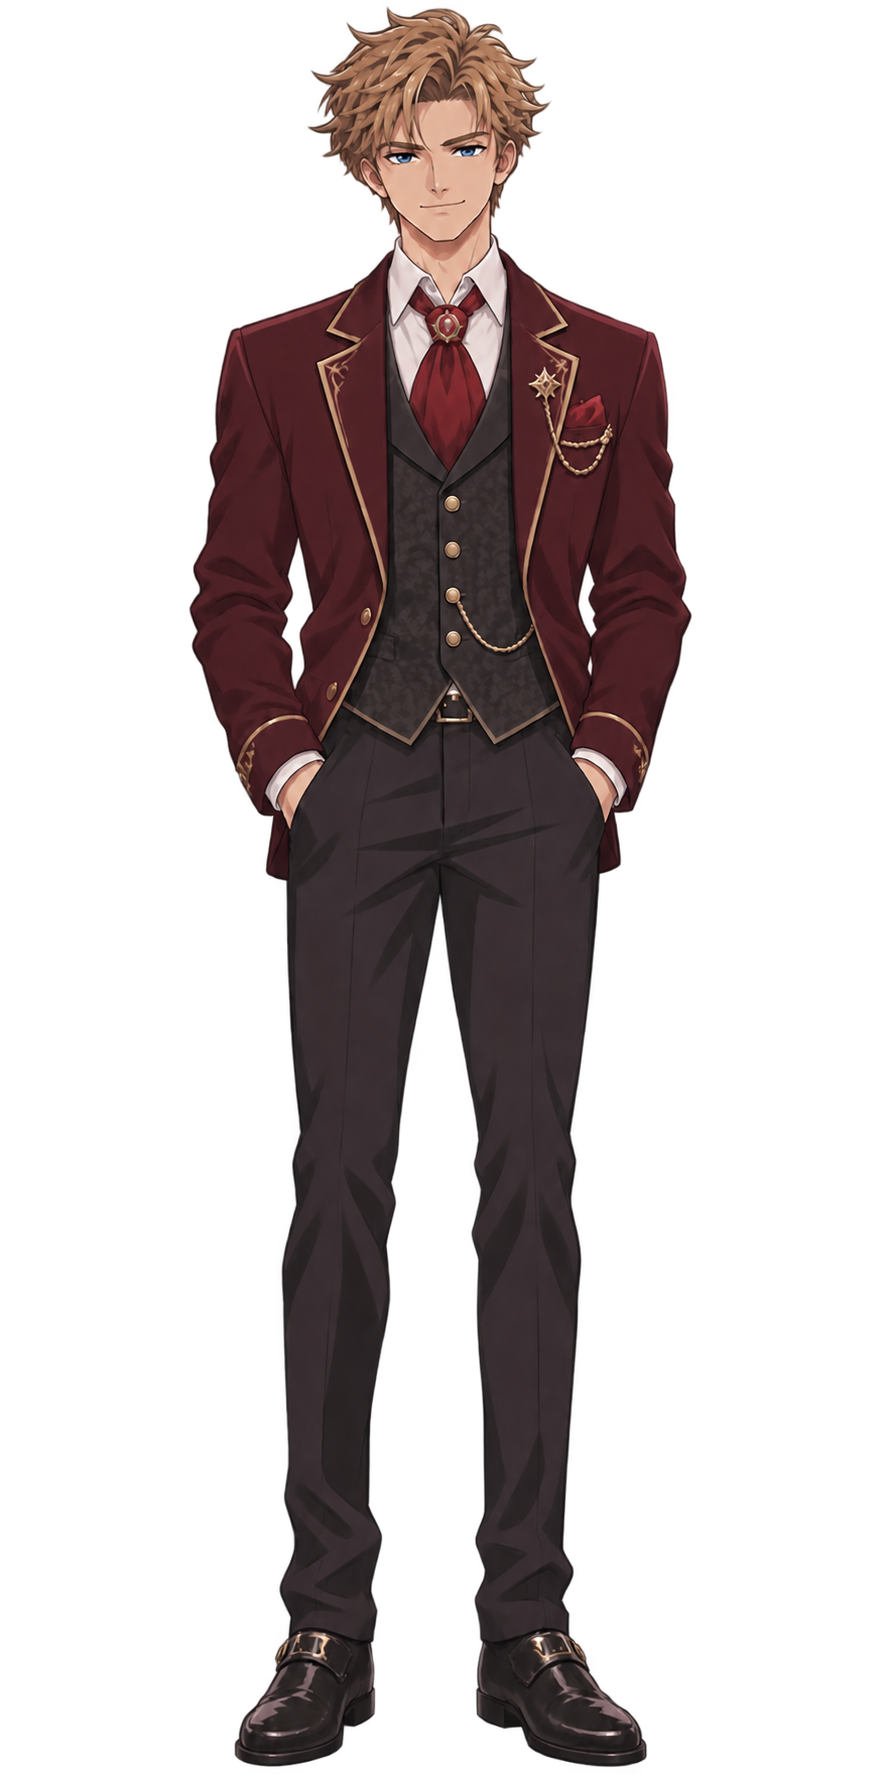
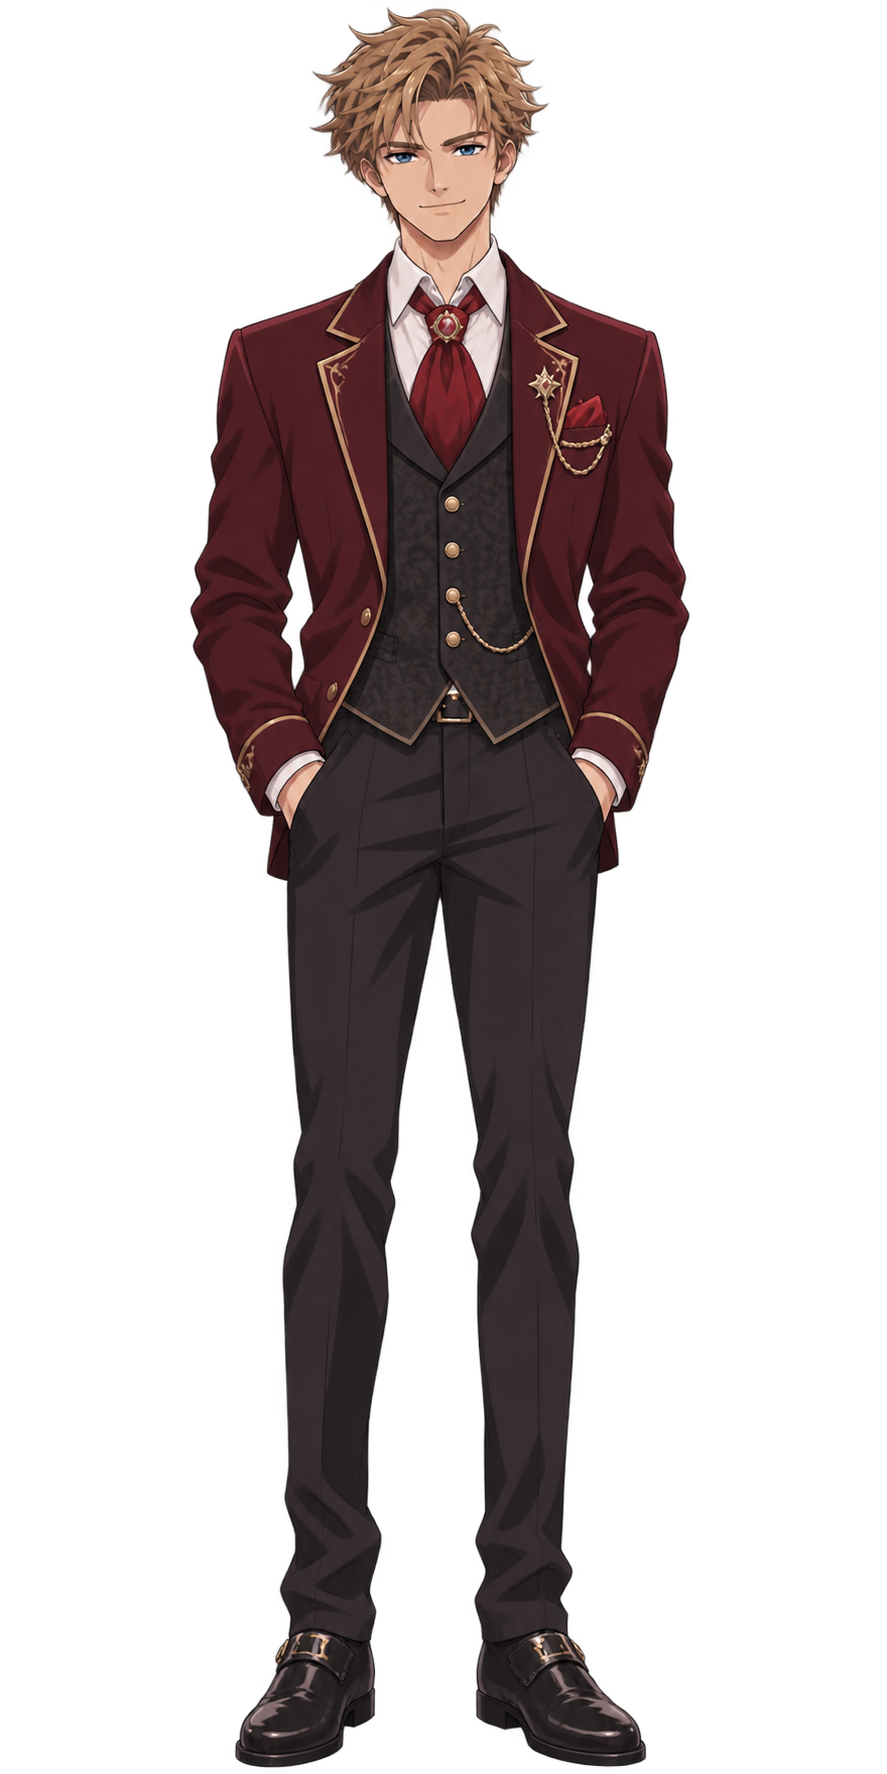
Add Logan Crimson Edge assets

diff --git a/src/scripts/main.js b/src/scripts/main.js
@@ -1,7 +1,7 @@
 import { CHARACTER_COMBAT_DATA, CHARACTER_ROSTER, COMBAT_RESOURCE_STANDARD, ENEMY_ARCHETYPES, ENEMY_COMBAT_DATA, RUNE_COMBAT_RULES, enemyStatsAtLevel, getActiveCharacterUpgradeEffect } from './combat-definitions.mjs';
 import { TwoToneBattleEngine, TwoToneTurnTimeline } from './combat-engine-api.mjs';
 'use strict';
-const sources={arena:'/assets/embedded-image-01.png',area1Background:'/assets/area-1-meadow.png',soul:'/assets/soul-ashblade-battle.png',soulBattleStandard:'/assets/soul-ashblade-battle.png',soulBattlePremium:'/assets/soulbound-battle.png',lily:'/assets/lily-artwork.png',lilyFront:'/assets/lily-artwork.png',lilyStandardBattle:'/assets/lily-petal-battle.png',lilySignatureBattle:'/assets/lily-everblossom-battle.png',lilyWeaponStandard:'/assets/lily-petal.png',lilyWeaponSignature:'/assets/lily-everblossom.png',dawnBattle:'/assets/dawn-radiant-pearl-battle.png',dawnPremiumBattle:'/assets/dawn-radiant-diamond-battle.png',dawnFront:'/assets/dawn-artwork.png',dawnWeaponStandard:'/assets/dawn-radiant-pearl.png',dawnWeaponPremium:'/assets/dawn-radiant-diamond.png',loganBattle:'/assets/logan.png',loganFront:'/assets/logan-front.png',loganPortrait:'/assets/logan-front.png',cloudFront:'/assets/cloud-artwork.png',cloudWindcallBattle:'/assets/cloud-windcall-battle.png',cloudWindcall:'/assets/cloud-windcall.png',cloudNineBattle:'/assets/cloud-nine-battle.png',cloudNine:'/assets/cloud-nine.png',enemy:'/assets/embedded-image-03.png',slimeBattle:'/assets/slime.png',goblinBattle:'/assets/goblin.png',bearBattle:'/assets/bear.png',hawkBattle:'/assets/hawk.png',geodeBattle:'/assets/geode.png',wolfBattle:'/assets/wolf.png',wolfArtwork:'/assets/wolf-artwork.png',slimeArtwork:'/assets/slime-artwork.jpg',portrait:'/assets/embedded-image-04.png',soulFront:'/assets/soul-artwork.png',soulWeaponStandard:'/assets/soul-ashblade.png',soulWeaponPremium:'/assets/soulbound.png',zeroFront:'/assets/zero.png',zeroBattle:'/assets/zero-battle.png',architectureLayer:'/assets/embedded-image-06.png',floorLayer:'/assets/embedded-image-07.png',treeLayer:'/assets/embedded-image-08.png',enchantedBottleSmall:'/assets/enchanted-bottle-small.png',enchantedBottleMedium:'/assets/enchanted-bottle-medium.png',enchantedBottleLarge:'/assets/enchanted-bottle-large.png',enchantedBookSmall:'/assets/enchanted-book-small.png',enchantedBookMedium:'/assets/enchanted-book-medium.png',enchantedBookLarge:'/assets/enchanted-book-large.png',core:'/assets/core.png',gem:'/assets/gem.png',coin:'/assets/coins.png',runeRadiantMoon:'/assets/rune-radiant-moon.png',runeEternalSun:'/assets/rune-eternal-sun.png',runeCelestialStar:'/assets/rune-celestial-star.png',runeDarkMatter:'/assets/rune-dark-matter.png',runeClearSkies:'/assets/rune-clear-skies.png',runeInfiniteSpace:'/assets/rune-infinite-space.png',runeRecycle:'/assets/rune-recycle.png',runeAmplify:'/assets/rune-amplify.png',runeUnited:'/assets/rune-united.png'};
+const sources={arena:'/assets/embedded-image-01.png',area1Background:'/assets/area-1-meadow.png',soul:'/assets/soul-ashblade-battle.png',soulBattleStandard:'/assets/soul-ashblade-battle.png',soulBattlePremium:'/assets/soulbound-battle.png',lily:'/assets/lily-artwork.png',lilyFront:'/assets/lily-artwork.png',lilyStandardBattle:'/assets/lily-petal-battle.png',lilySignatureBattle:'/assets/lily-everblossom-battle.png',lilyWeaponStandard:'/assets/lily-petal.png',lilyWeaponSignature:'/assets/lily-everblossom.png',dawnBattle:'/assets/dawn-radiant-pearl-battle.png',dawnPremiumBattle:'/assets/dawn-radiant-diamond-battle.png',dawnFront:'/assets/dawn-artwork.png',dawnWeaponStandard:'/assets/dawn-radiant-pearl.png',dawnWeaponPremium:'/assets/dawn-radiant-diamond.png',loganBattle:'/assets/logan.png',loganFront:'/assets/logan-front.png',loganPortrait:'/assets/logan-front.png',loganWeaponStandard:'/assets/logan-crimson-edge.png',cloudFront:'/assets/cloud-artwork.png',cloudWindcallBattle:'/assets/cloud-windcall-battle.png',cloudWindcall:'/assets/cloud-windcall.png',cloudNineBattle:'/assets/cloud-nine-battle.png',cloudNine:'/assets/cloud-nine.png',enemy:'/assets/embedded-image-03.png',slimeBattle:'/assets/slime.png',goblinBattle:'/assets/goblin.png',bearBattle:'/assets/bear.png',hawkBattle:'/assets/hawk.png',geodeBattle:'/assets/geode.png',wolfBattle:'/assets/wolf.png',wolfArtwork:'/assets/wolf-artwork.png',slimeArtwork:'/assets/slime-artwork.jpg',portrait:'/assets/embedded-image-04.png',soulFront:'/assets/soul-artwork.png',soulWeaponStandard:'/assets/soul-ashblade.png',soulWeaponPremium:'/assets/soulbound.png',zeroFront:'/assets/zero.png',zeroBattle:'/assets/zero-battle.png',architectureLayer:'/assets/embedded-image-06.png',floorLayer:'/assets/embedded-image-07.png',treeLayer:'/assets/embedded-image-08.png',enchantedBottleSmall:'/assets/enchanted-bottle-small.png',enchantedBottleMedium:'/assets/enchanted-bottle-medium.png',enchantedBottleLarge:'/assets/enchanted-bottle-large.png',enchantedBookSmall:'/assets/enchanted-book-small.png',enchantedBookMedium:'/assets/enchanted-book-medium.png',enchantedBookLarge:'/assets/enchanted-book-large.png',core:'/assets/core.png',gem:'/assets/gem.png',coin:'/assets/coins.png',runeRadiantMoon:'/assets/rune-radiant-moon.png',runeEternalSun:'/assets/rune-eternal-sun.png',runeCelestialStar:'/assets/rune-celestial-star.png',runeDarkMatter:'/assets/rune-dark-matter.png',runeClearSkies:'/assets/rune-clear-skies.png',runeInfiniteSpace:'/assets/rune-infinite-space.png',runeRecycle:'/assets/rune-recycle.png',runeAmplify:'/assets/rune-amplify.png',runeUnited:'/assets/rune-united.png'};
 const BATTLE_AREAS=Object.freeze({
  'area-1':Object.freeze({name:'Area 1',background:'area1Background'})
 });
@@ -1593,9 +1593,9 @@ function drawLoadoutDetailsPanel(model,record,progress,cap){
 }
 function drawLoadoutWeaponsPanel(model,record){
  const w=record.weapon,type=w.selected,level=w[type+'Level'],cap=weaponLevelCap(),exp=w[type+'Exp'],needed=requiredExp(level),potential=w[type+'Potential'],bonus=weaponPotentialMultiplier(type,potential,level)*100,owned=type==='standard'||w.premiumOwned,gate=ASCENSION_GATES.includes(level)&&!w[type+'Ascended'].includes(level);
- const weaponName=model.id==='soul'?(type==='premium'?'SOULBOUND':'ASHBLADE'):model.id==='cloud'?(type==='premium'?'CLOUD-NINE':'WINDCALL'):model.id==='lily'?(type==='premium'?'EVERBLOSSOM':'PETAL'):model.id==='dawn'?(type==='premium'?'RADIANT DIAMOND':'RADIANT PEARL'):(type==='premium'?'PREMIUM SIGNATURE':'STANDARD SIGNATURE');
+ const weaponName=model.id==='soul'?(type==='premium'?'SOULBOUND':'ASHBLADE'):model.id==='cloud'?(type==='premium'?'CLOUD-NINE':'WINDCALL'):model.id==='lily'?(type==='premium'?'EVERBLOSSOM':'PETAL'):model.id==='dawn'?(type==='premium'?'RADIANT DIAMOND':'RADIANT PEARL'):model.id==='logan'?(type==='premium'?'PREMIUM SIGNATURE':'CRIMSON EDGE'):(type==='premium'?'PREMIUM SIGNATURE':'STANDARD SIGNATURE');
  text(weaponName,1090,151,17,'#e8d6af','850');
- const weaponArt=model.id==='soul'?images[type==='premium'?'soulWeaponPremium':'soulWeaponStandard']:model.id==='cloud'?images[type==='premium'?'cloudNine':'cloudWindcall']:model.id==='lily'?images[type==='premium'?'lilyWeaponSignature':'lilyWeaponStandard']:model.id==='dawn'?images[type==='premium'?'dawnWeaponPremium':'dawnWeaponStandard']:null;if(weaponArt?.complete&&weaponArt.naturalWidth)drawStoreBannerImage(weaponArt,1090,171,445,300);
+ const weaponArt=model.id==='soul'?images[type==='premium'?'soulWeaponPremium':'soulWeaponStandard']:model.id==='cloud'?images[type==='premium'?'cloudNine':'cloudWindcall']:model.id==='lily'?images[type==='premium'?'lilyWeaponSignature':'lilyWeaponStandard']:model.id==='dawn'?images[type==='premium'?'dawnWeaponPremium':'dawnWeaponStandard']:model.id==='logan'&&type==='standard'?images.loganWeaponStandard:null;if(weaponArt?.complete&&weaponArt.naturalWidth)drawStoreBannerImage(weaponArt,1090,171,445,300);
  text('POTENTIAL '+potential+' / 5     •     LEVEL '+level+' / '+cap,1090,490,14,'#e1e8f0','750');
  text(gate?'ASCENSION REQUIRED':level>=cap?'WEAPON LEVEL CAP REACHED':'XP  '+exp+' / '+needed,1090,516,13,'#b9c8d7','600');
  line(1090,529,445,exp/Math.max(1,needed),'#d9b96e','rgba(218,228,240,.18)',7);
